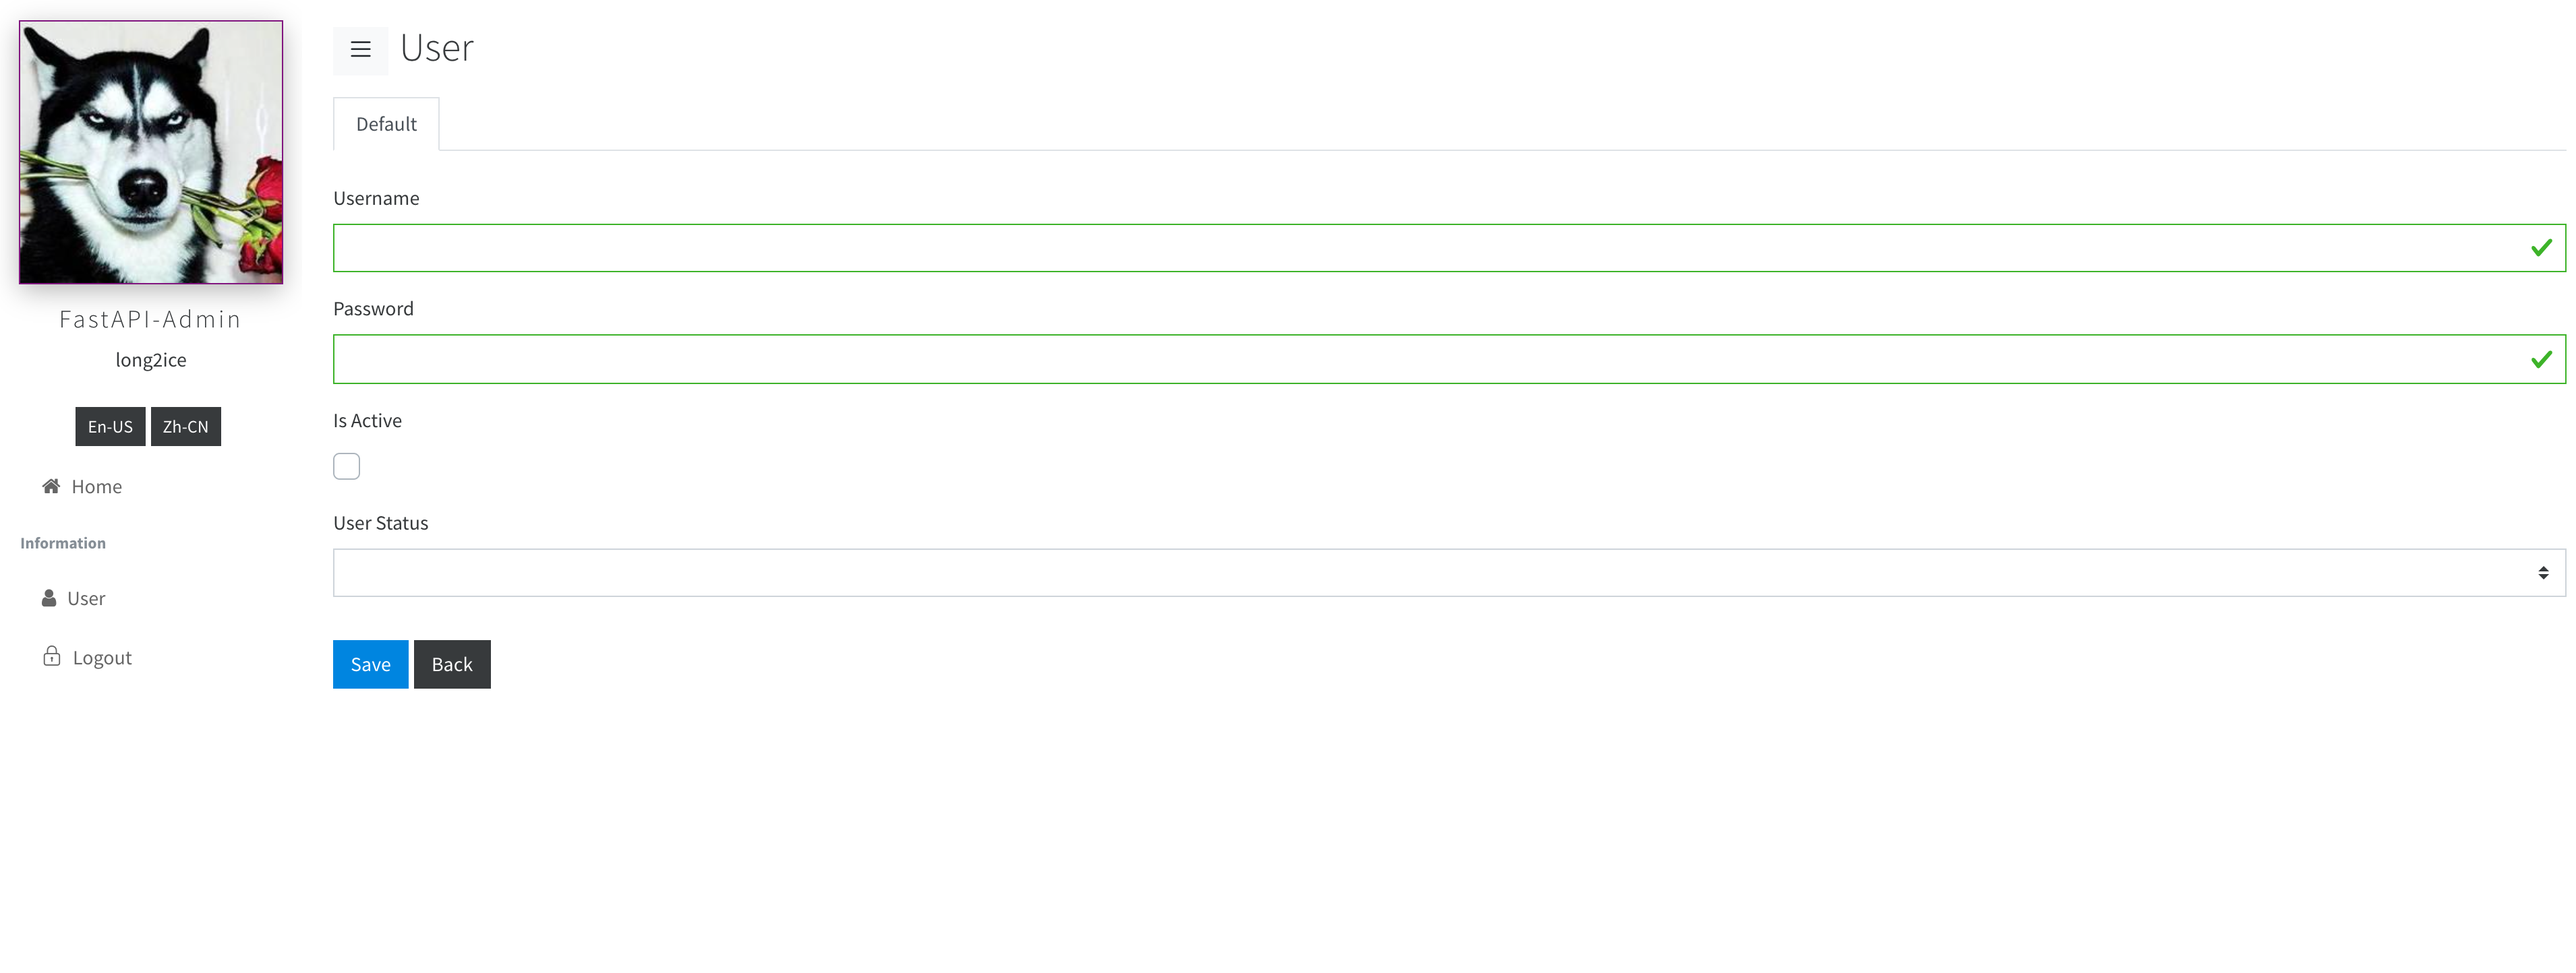
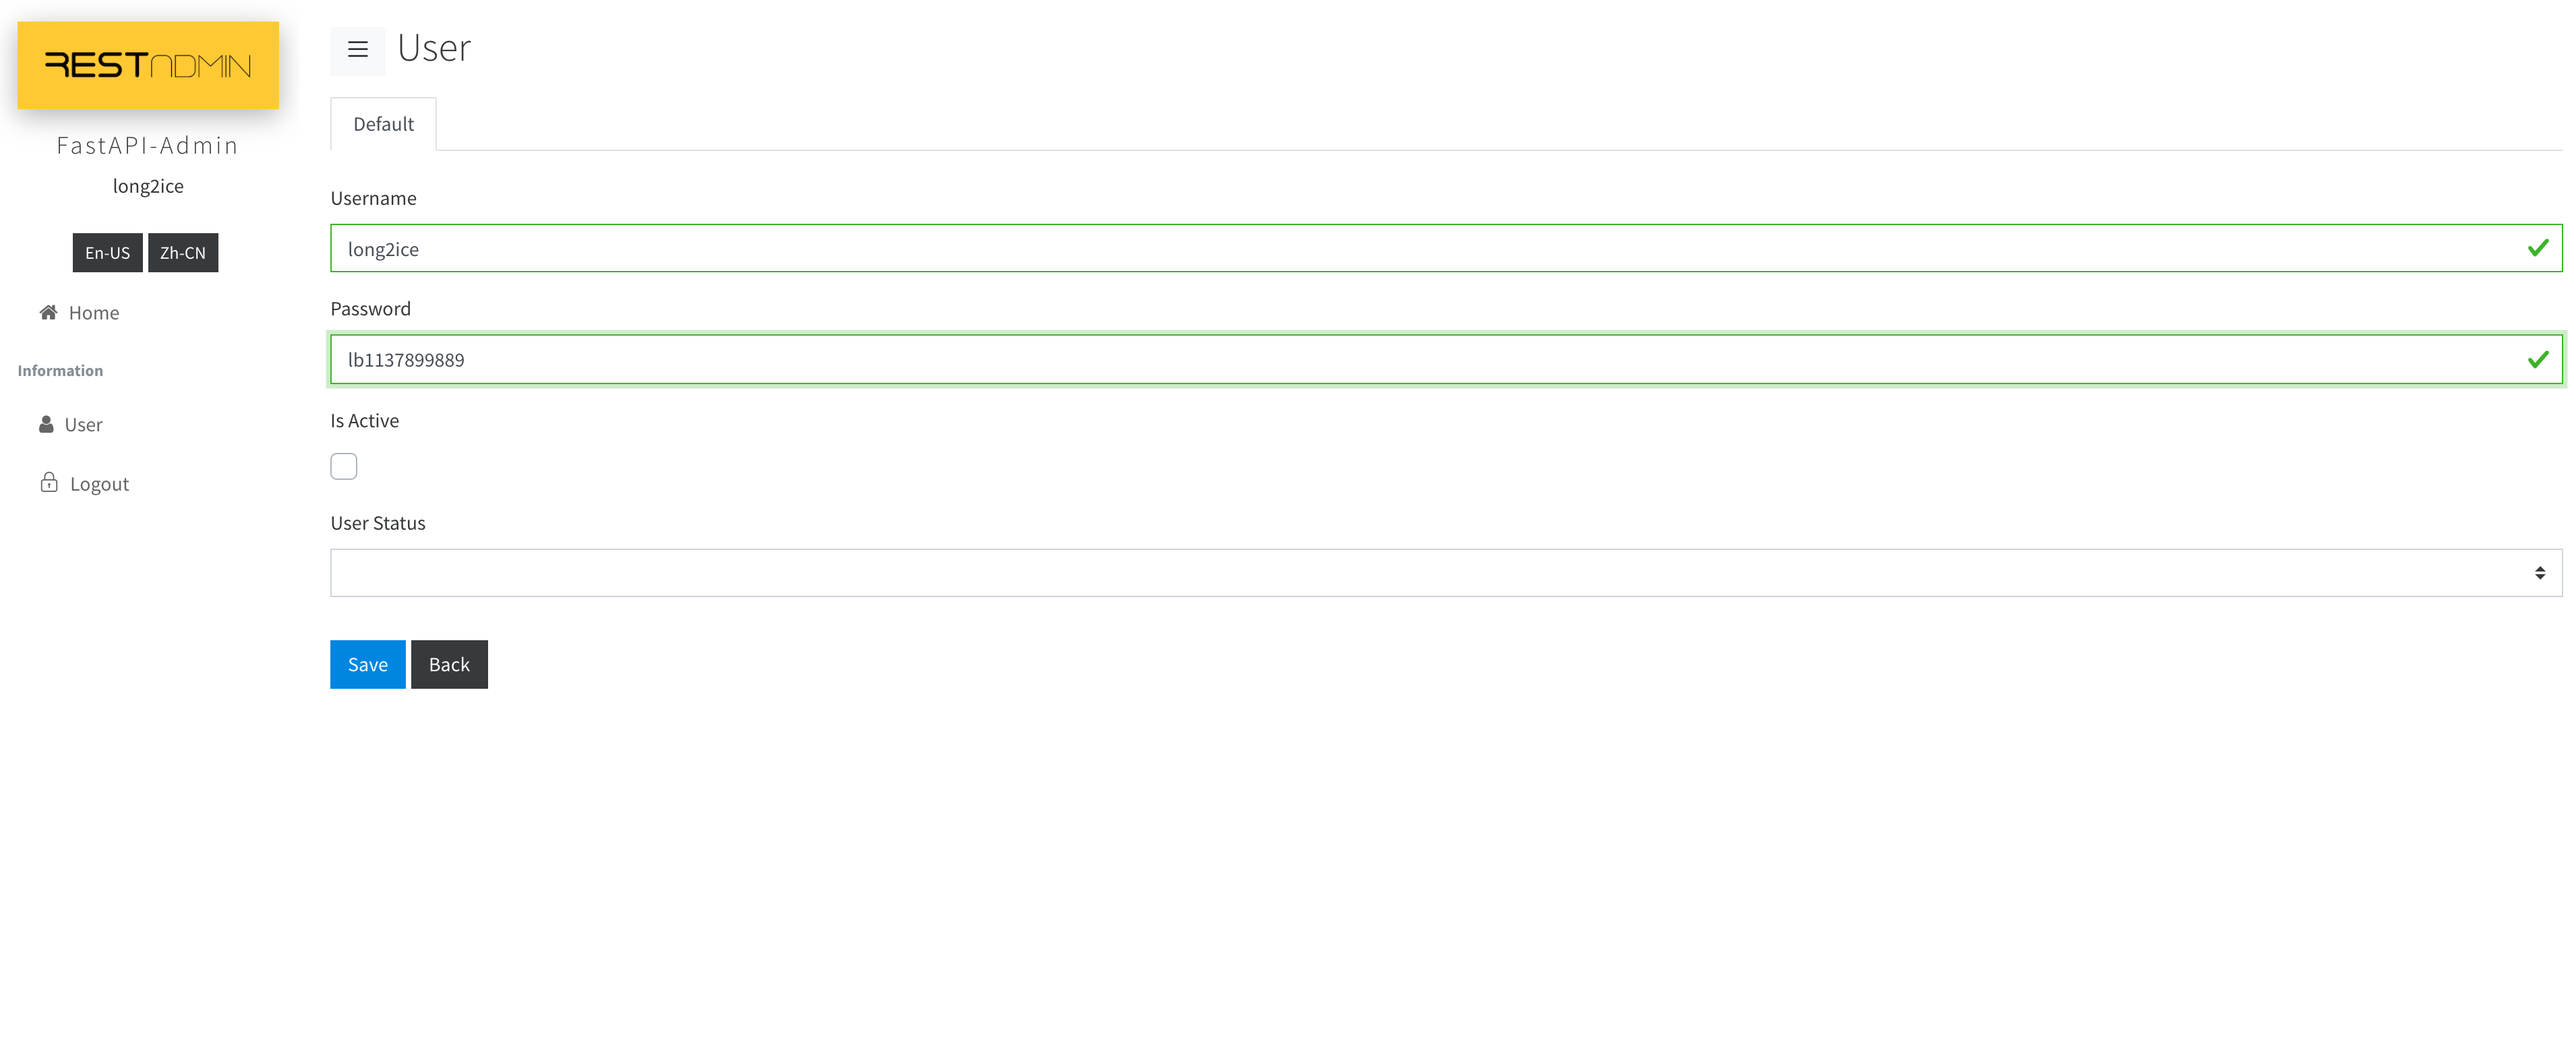
update README.rst and add LICENSE

diff --git a/fastapi_admin/factory.py b/fastapi_admin/factory.py
@@ -25,6 +25,14 @@ class AdminApp(FastAPI):
     }
 
     def init(self, site: Site, user_model: str, admin_secret: str, models: str, ):
+        """
+        init admin site
+        :param site:
+        :param user_model: admin user model path,like admin.models.user
+        :param admin_secret: admin jwt secret.
+        :param models: tortoise models
+        :return:
+        """
         self.site = site
         self.admin_secret = admin_secret
         self.models = importlib.import_module(models)
@@ -32,6 +40,12 @@ class AdminApp(FastAPI):
         self._inited = True
 
     def _exclude_field(self, resource: str, field: str):
+        """
+        exclude field by menu include and exclude
+        :param resource:
+        :param field:
+        :return:
+        """
         for menu in filter(lambda x: x.url, self.site.menus):
             if resource == menu.url.split('?')[0].split('/')[-1]:
                 if menu.include:

diff --git a/setup.py b/setup.py
@@ -8,7 +8,7 @@ with open(os.path.join(os.path.dirname(__file__), 'README.rst')) as f:
 
 
 def requirements():
-    return open("requirements.txt", "rt").read().splitlines()
+    return open('requirements.txt', 'rt').read().splitlines()
 
 
 setup(
@@ -21,11 +21,11 @@ setup(
     author_email='long2ice@gmail.com',
     url='https://github.com/long2ice/fastapi-admin',
     license='MIT License',
-    packages=find_packages(include=["fastapi_admin*"]),
+    packages=find_packages(include=['fastapi_admin*']),
     include_package_data=True,
     platforms='any',
     keywords=(
-        "fastapi admin dashboard"
+        'fastapi admin dashboard'
     ),
     dependency_links=['https://github.com/long2ice/tortoise-orm.git@long2ice#egg=tortoise-orm'],
     install_requires=requirements(),

diff --git a/examples/main.py b/examples/main.py
@@ -32,7 +32,7 @@ def create_app():
         models='examples.models',
         site=Site(
             name='FastAPI-Admin',
-            logo='https://avatars2.githubusercontent.com/u/13377178?s=460&u=d150d522579f41a52a0b3dd8ea997e0161313b6e&v=4',
+            logo='https://github.com/long2ice/fastapi-admin/raw/master/front/static/img/logo.png',
             locale='en-US',
             locale_switcher=True,
             menu=[

diff --git a/README.rst b/README.rst
@@ -10,9 +10,9 @@ FastAPI Admin
 Introduction
 ============
 
-fastapi-admin is a admin dashboard based on `fastapi <https://github.com/tiangolo/fastapi>`_ and `tortoise-orm <https://github.com/tortoise/tortoise-orm>`_ and `rest-admin <https://github.com/wxs77577/rest-admin>`_.
+FastAPI-admin is a admin dashboard based on `fastapi <https://github.com/tiangolo/fastapi>`_ and `tortoise-orm <https://github.com/tortoise/tortoise-orm>`_ and `rest-admin <https://github.com/wxs77577/rest-admin>`_.
 
-fastapi-admin provide crud feature out-of-the-box with just a few config.
+FastAPI-admin provide crud feature out-of-the-box with just a few config.
 
 Features
 ========
@@ -25,18 +25,20 @@ Features
 Screenshots
 ===========
 
-.. image:: ./images/login.png
-.. image:: ./images/list.png
-.. image:: ./images/view.png
-.. image:: ./images/create.png
+.. image:: https://github.com/long2ice/fastapi-admin/raw/master/images/login.png
+.. image:: https://github.com/long2ice/fastapi-admin/raw/master/images/list.png
+.. image:: https://github.com/long2ice/fastapi-admin/raw/master/images/view.png
+.. image:: https://github.com/long2ice/fastapi-admin/raw/master/images/create.png
 
 
-Example
-=======
+Quick Start
+===========
 
-backend
+Backend
 -------
 
+example
+~~~~~~~
 Only you should do is runing a fastapi app and mount admin app from fastapi-admin,then call ``init()``.
 
 .. code-block:: python
@@ -75,7 +77,7 @@ Only you should do is runing a fastapi app and mount admin app from fastapi-admi
             models='examples.models',
             site=Site(
                 name='FastAPI-Admin',
-                logo='https://avatars2.githubusercontent.com/u/13377178?s=460&u=d150d522579f41a52a0b3dd8ea997e0161313b6e&v=4',
+                logo='https://github.com/long2ice/fastapi-admin/raw/master/front/static/img/logo.png',
                 locale='en-US',
                 locale_switcher=True,
                 menu=[
@@ -91,7 +93,7 @@ Only you should do is runing a fastapi app and mount admin app from fastapi-admi
                     ),
                     Menu(
                         name='User',
-                        url='/rest/TestUser',
+                        url='/rest/TestUser', #important,TestUser is same of the Model class TestUser.
                         icon='fa fa-user',
                     ),
                     Menu(
@@ -119,15 +121,46 @@ Only you should do is runing a fastapi app and mount admin app from fastapi-admi
     if __name__ == '__main__':
         uvicorn.run('main:app', port=8000, debug=True, reload=True)
 
+Enum Support
+~~~~~~~~~~~~
+When you define a enum field of tortoise-orm,like ``IntEnumField``,you can inherit ``fastapi_admin.enum.EnumMixin`` and impl ``choices()`` method,
+FastAPI-admin will auto read and display and render a ``select`` widget in front.
 
-front
+.. code-block:: python
+
+    class Status(EnumMixin, IntEnum):
+        on = 1
+        off = 2
+
+        @classmethod
+        def choices(cls):
+            return {
+                cls.on: 'ON',
+                cls.off: 'OFF'
+            }
+
+Admin User Model
+~~~~~~~~~~~~~~~~
+Inherit ``fastapi_admin.models.User`` and add you own fields,then pass in ``init()``.
+
+.. code-block:: python
+
+    class AdminUser(User):
+        is_active = fields.BooleanField(default=False, description='Is Active')
+        status = fields.IntEnumField(Status, description='User Status')
+        created_at = fields.DatetimeField(auto_now_add=True)
+        updated_at = fields.DatetimeField(auto_now=True)
+
+
+Front
 -----
-just run ``cd front && npm run serve``,more reference in `rest-admin <https://github.com/wxs77577/rest-admin>`_.
+
+Just run ``cd front && npm run serve``,more reference in `rest-admin <https://github.com/wxs77577/rest-admin>`_.
 
 Deployment
 ==========
-1. deploy fastapi app by gunicorn+uvicorn or reference https://fastapi.tiangolo.com/deployment/.
-2. run ``npm run build`` in ``front`` dir,then copy static files in ``dists`` to you server,deployment by ``nginx``.
+1. Deploy fastapi app by gunicorn+uvicorn or reference https://fastapi.tiangolo.com/deployment/.
+2. Run ``npm run build`` in ``front`` dir,then copy static files in ``dists`` to you server,deployment by ``nginx``.
 
 .. note::
    Maybe you should config ``VUE_APP_API_URL``, ``BASE_URL`` environment .etc in ``.env`` of ``front`` dir,just reference docs of `rest-admin <https://github.com/wxs77577/rest-admin>`_.
